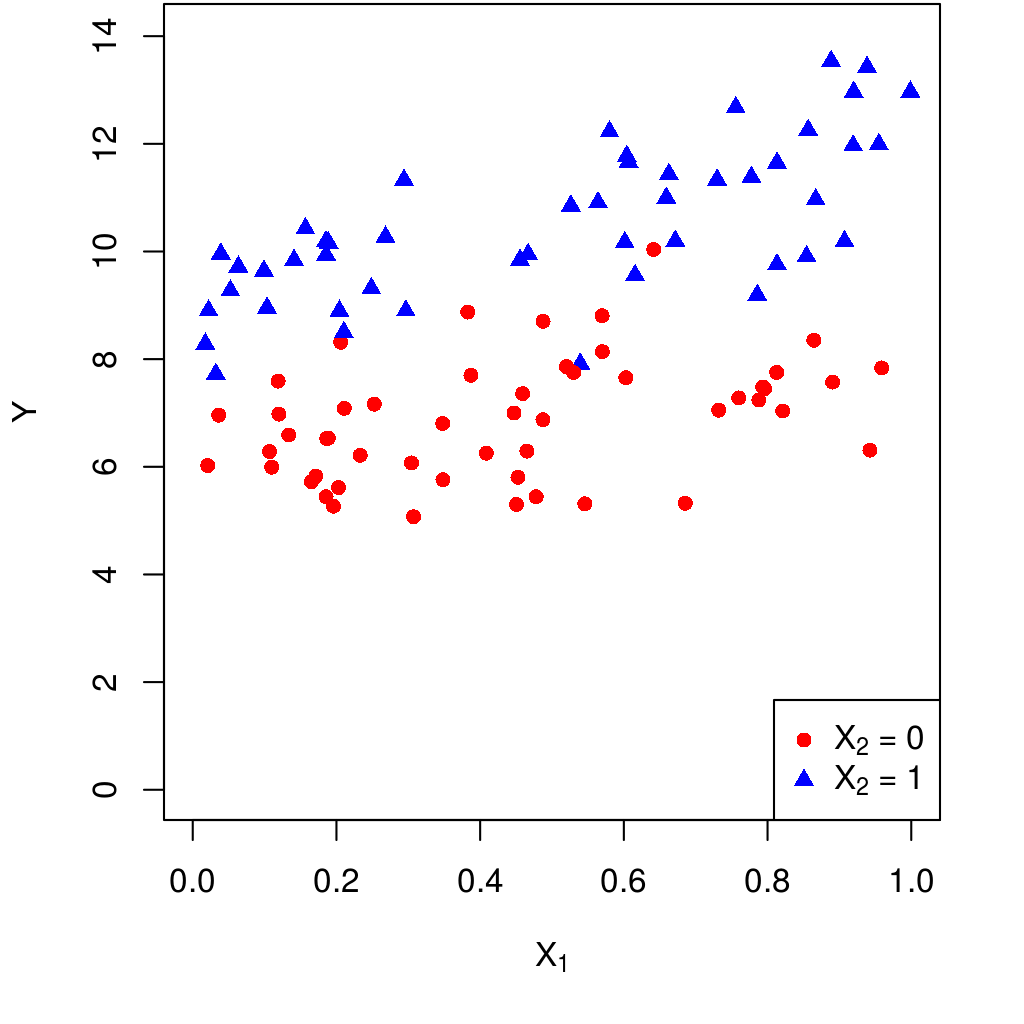
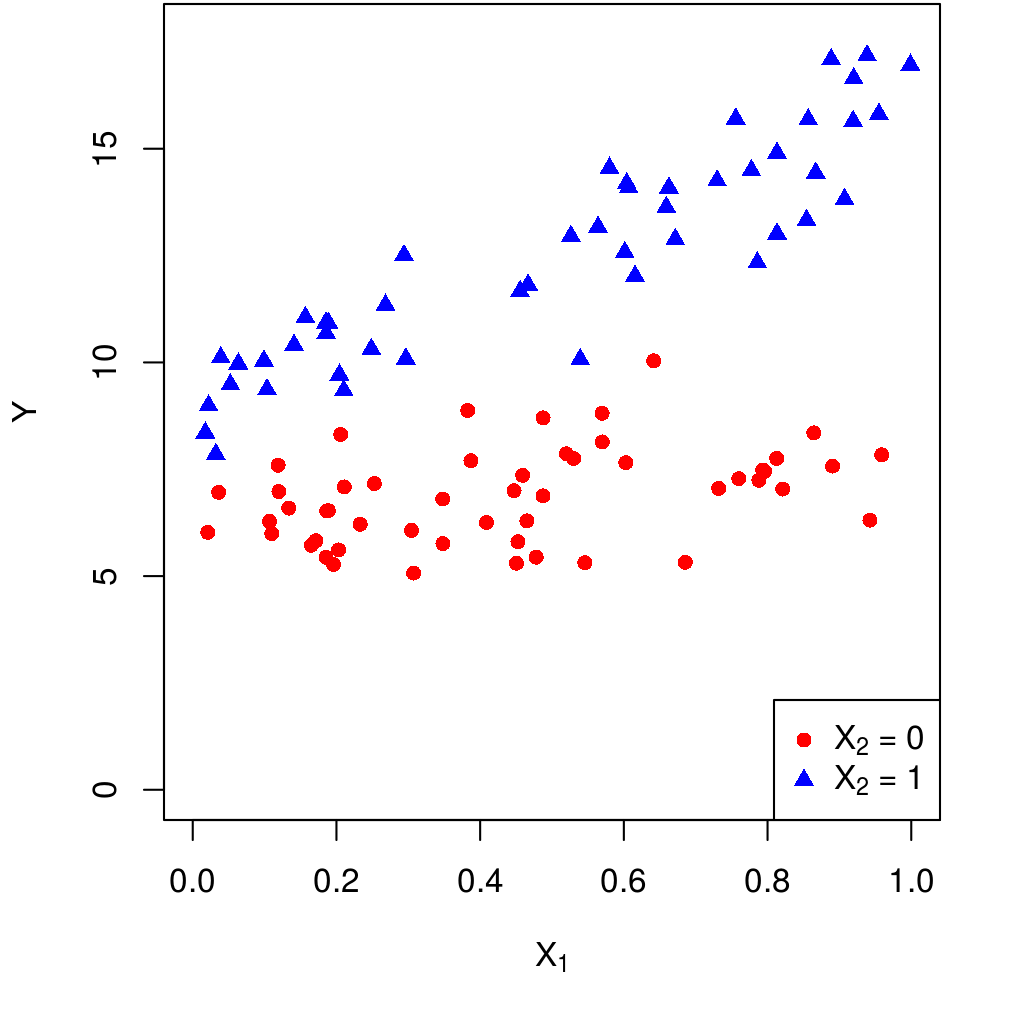
updated EM example to be more striking

diff --git a/lecture/chapter_1/chap1.tex b/lecture/chapter_1/chap1.tex
@@ -1253,7 +1253,7 @@ How about now?
 The true relationship between $Y$ and $X_1$ on the previous slides is 
 \begin{align*}
 E(Y \mid X_1) =& \ 6 + 2 X_1 \text{ in those with $X_2 = 0$, and } \\
-E(Y \mid X_1) =& \ 9 + 3 X_1 \text{ in those with $X_2 = 1$}.
+E(Y \mid X_1) =& \ 9 + 7 X_1 \text{ in those with $X_2 = 1$}.
 \end{align*}
 
 What happened when we \textcolor{blue}{did not account for} $X_2$ in the analysis? \pause {\small Hint: we estimated the \textbf{pooled} coefficient for $X_1$ to be 2.62}
